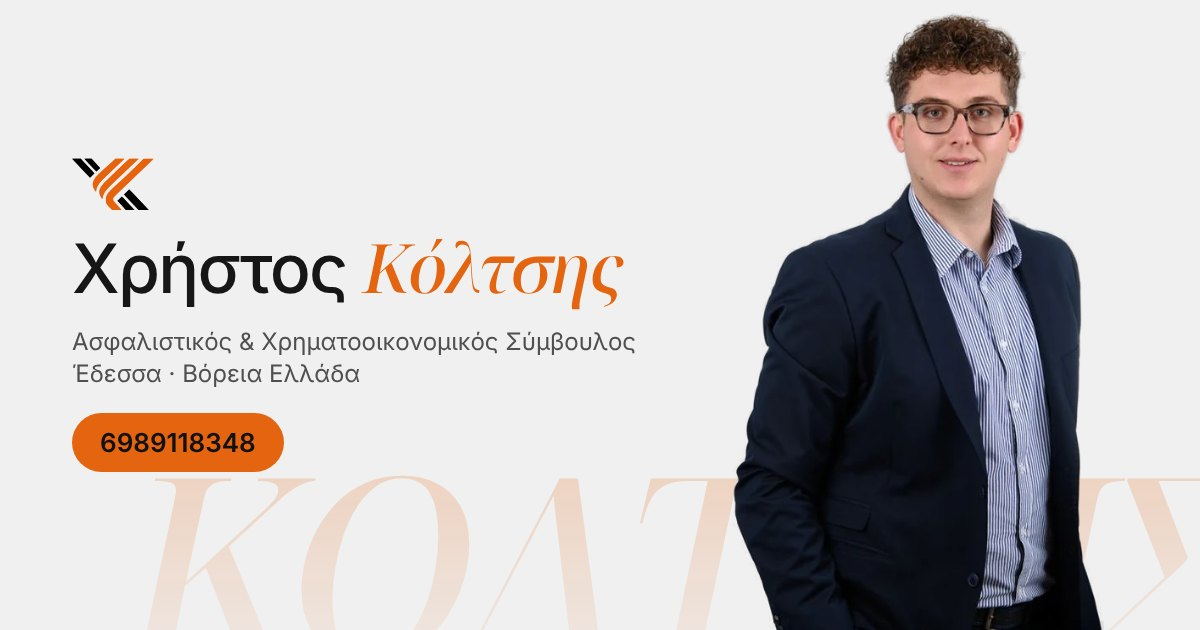
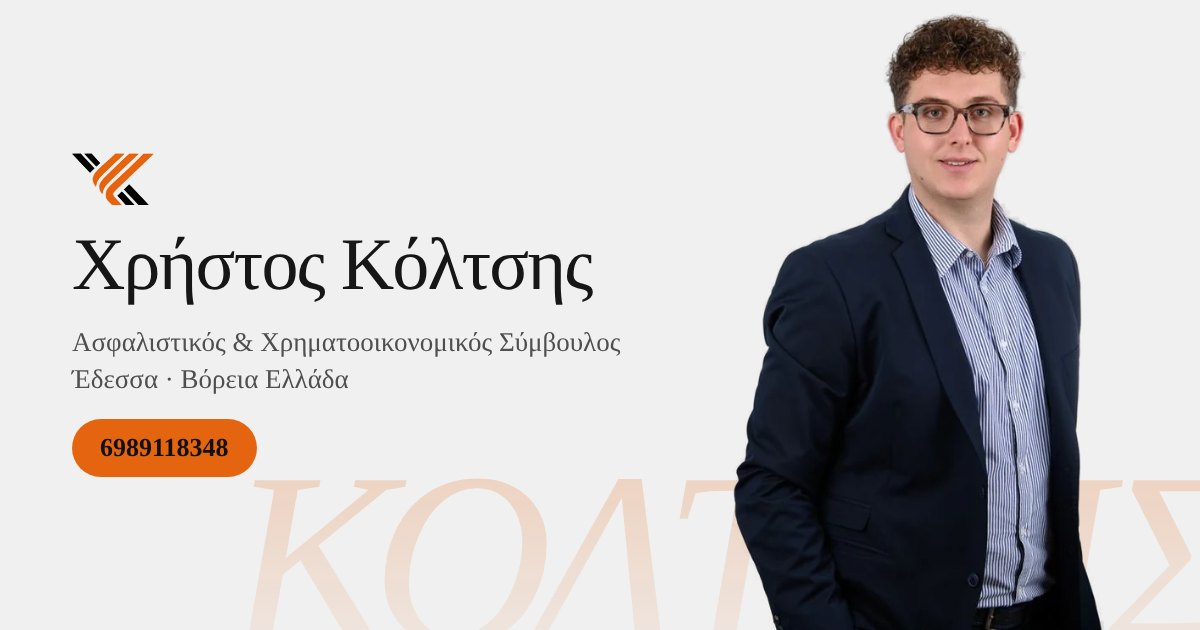
Switch typography to Times New Roman and add artifact preview build
Christos asked for Times New Roman across the site and for his name to
read in one colour and size on the share image. Devices without Times
New Roman (most Android phones) get Tinos, which has the same metrics
and Greek support.

npm run build:preview packs a hash-routed build into one self-contained
HTML file, so the whole site can be reviewed as a claude.ai artifact
before launch.

Claude-Session: https://claude.ai/code/session_012S619zmG4iuKr46HpjBQPj

diff --git a/src/index.css b/src/index.css
@@ -1,7 +1,7 @@
 html,body{background:var(--bg)}
-:root{--bg:#f0f0f0;--surface:#fff;--fill:rgba(120,120,120,.12);--ink:#161616;--muted:#636363;--line:#d6d6d6;--accent:#e56410;--on:#111;--soft:#fbe8db;--text:#a84306;color-scheme:light}
+:root{--bg:#f0f0f0;--surface:#fff;--fill:rgba(120,120,120,.12);--ink:#161616;--muted:#636363;--line:#d6d6d6;--accent:#e56410;--on:#111;--soft:#fbe8db;--text:#a84306;--serif:"Times New Roman",Tinos,Times,serif;color-scheme:light}
 *{box-sizing:border-box;margin:0;padding:0}
-body{background:var(--bg);color:var(--ink);font:16px/1.55 -apple-system,BlinkMacSystemFont,"SF Pro Text","Helvetica Neue","Segoe UI",Roboto,system-ui,sans-serif}
+body{background:var(--bg);color:var(--ink);font:17px/1.5 var(--serif)}
 a{color:inherit;text-decoration:none}button,input,textarea{font:inherit;color:inherit}
 :focus-visible{outline:3px solid var(--accent);outline-offset:2px}
 .wrap{max-width:1040px;margin:0 auto;padding-left:16px;padding-right:16px}
@@ -14,7 +14,7 @@ nav a{padding:9px 12px;border-radius:999px;font-weight:600;font-size:14px;white-
 nav a[aria-current=page]{background:var(--accent);color:var(--on)}
 main{padding-top:24px;padding-bottom:48px;min-height:70vh}
 h1{font-size:clamp(28px,5vw,46px);line-height:1.12;letter-spacing:-.02em;text-wrap:balance;margin-bottom:12px}
-h1 em{font-family:"Noto Serif Display",Georgia,serif;font-style:italic;font-weight:500;color:var(--text);letter-spacing:-.01em}
+h1 em{font-family:var(--serif);font-style:italic;font-weight:500;color:var(--text);letter-spacing:-.01em}
 h2{font-size:20px;line-height:1.25}h3{font-size:18px;line-height:1.25}
 .section{margin:36px 0 14px}
 .lead{color:var(--muted);max-width:60ch;margin-bottom:18px}
@@ -172,7 +172,7 @@ header.open .burger i:nth-child(3){transform:translateY(-6px) rotate(-45deg)}
 main{padding-top:28px}
 
 .hero2{position:relative;display:grid;align-items:end;min-height:min(calc(100svh - 110px),760px);margin:0 -16px;padding:0 16px;overflow:clip;isolation:isolate}
-.sig{position:absolute;left:50%;bottom:6%;z-index:-1;font-family:"Noto Serif Display",Georgia,serif;font-style:italic;font-weight:500;font-size:min(19vw,215px);line-height:.8;letter-spacing:-.04em;white-space:nowrap;color:transparent;background:linear-gradient(180deg,rgba(229,100,16,.22),rgba(229,100,16,.06) 90%);-webkit-background-clip:text;background-clip:text;transform:translate(calc(-50% + var(--mx,0)*-40px),calc(var(--my,0)*-22px));user-select:none;pointer-events:none}
+.sig{position:absolute;left:50%;bottom:6%;z-index:-1;font-family:var(--serif);font-style:italic;font-weight:500;font-size:min(19vw,215px);line-height:.8;letter-spacing:-.04em;white-space:nowrap;color:transparent;background:linear-gradient(180deg,rgba(229,100,16,.22),rgba(229,100,16,.06) 90%);-webkit-background-clip:text;background-clip:text;transform:translate(calc(-50% + var(--mx,0)*-40px),calc(var(--my,0)*-22px));user-select:none;pointer-events:none}
 .hero-copy{position:relative;z-index:2;display:flex;flex-direction:column;align-items:flex-start;gap:14px;padding:28px 0}
 .hero-title{font-size:clamp(40px,6.4vw,84px);line-height:1.02;margin:0;max-width:11ch}
 .hero-title em{display:inline;color:var(--accent)}
@@ -203,7 +203,7 @@ p.rise{display:block}
 .stack::after{content:"";height:24vh}
 .step{position:sticky;top:calc(88px + var(--i)*62px);flex-direction:row;align-items:flex-start;gap:20px;padding:16px 28px 28px;min-height:170px;box-shadow:0 -1px 0 rgba(0,0,0,.02),0 18px 40px -24px rgba(0,0,0,.3)}
 .step:nth-child(2){background:#fff9f4}.step:nth-child(3){background:var(--soft)}
-.step-n{flex:none;font-family:"Noto Serif Display",Georgia,serif;font-style:italic;font-size:52px;line-height:.85;padding-top:4px;color:var(--accent)}
+.step-n{flex:none;font-family:var(--serif);font-style:italic;font-size:52px;line-height:.85;padding-top:4px;color:var(--accent)}
 .step h3{font-size:22px;margin:8px 0 6px}.step p{font-size:16.5px;max-width:52ch}
 @media(max-width:600px){.stack{gap:8vh}.step{padding:14px 22px 22px;gap:14px}.step-n{font-size:46px}}
 

diff --git a/src/App.tsx b/src/App.tsx
@@ -5,7 +5,7 @@ import mark from './mark'
 import logo from './logo'
 import { useDepth, useFx } from './Fx'
 import { Pension, Checkup, ToolsPage, Funds, Near } from './Tools'
-import { href, keyFromPath, meta, ROUTES, BASE } from './routes'
+import { href, keyFromPath, currentKey, meta, ROUTES, BASE, HASH } from './routes'
 
 const PHONE = '6989118348'
 const MAIL = 'christos.koltsis@nnadvisors.gr'
@@ -206,7 +206,7 @@ function Privacy() {
 }
 
 export default function App({ initial }: { initial?: string }) {
-  const [route, setRoute] = useState(() => initial ?? keyFromPath(location.pathname))
+  const [route, setRoute] = useState(() => initial ?? currentKey())
   const [menu, setMenu] = useState(false)
   useEffect(() => {
     const go = (key: string) => {
@@ -214,6 +214,7 @@ export default function App({ initial }: { initial?: string }) {
       const m = meta(key); document.title = m.title
       document.querySelector('meta[name=description]')?.setAttribute('content', m.description)
     }
+    if (HASH) { const f = () => go(currentKey()); addEventListener('hashchange', f); return () => removeEventListener('hashchange', f) }
     const old = location.hash.slice(1)
     if (location.pathname === BASE && ROUTES.includes(old) && old !== 'arxiki') { history.replaceState(null, '', href(old)); go(old) }
     const click = (e: MouseEvent) => {

diff --git a/src/routes.ts b/src/routes.ts
@@ -1,12 +1,20 @@
 import { POSTS } from './data'
 
 export const BASE = import.meta.env.BASE_URL
+// Preview builds (claude.ai artifact) can't use real paths, so pages switch on #key there
+export const HASH = import.meta.env.VITE_HASH_ROUTES === 'true'
 
 export const PAGES = ['arxiki', 'idiotes', 'epixeiriseis', 'programmata', 'ergaleia', 'syntaxi', 'checkup', 'kefalaia', 'konta', 'blog', 'epikoinonia', 'rantevou', 'aporrito'] as const
 export const ROUTES: string[] = [...PAGES, ...POSTS.map(p => 'arthro-' + p.id)]
 
 export const href = (key: string) =>
-  key === 'arxiki' ? BASE : BASE + (key.startsWith('arthro-') ? 'arthra/' + key.slice(7) : key) + '/'
+  HASH ? '#' + key : key === 'arxiki' ? BASE : BASE + (key.startsWith('arthro-') ? 'arthra/' + key.slice(7) : key) + '/'
+
+export function currentKey() {
+  if (!HASH) return keyFromPath(location.pathname)
+  const key = location.hash.slice(1).split('#')[0]
+  return ROUTES.includes(key) ? key : 'arxiki'
+}
 
 export function keyFromPath(pathname: string) {
   const rest = pathname.startsWith(BASE) ? pathname.slice(BASE.length) : pathname.replace(/^\//, '')

diff --git a/index.html b/index.html
@@ -5,7 +5,7 @@
 <meta name="viewport" content="width=device-width, initial-scale=1.0" />
 <link rel="preconnect" href="https://fonts.googleapis.com" />
 <link rel="preconnect" href="https://fonts.gstatic.com" crossorigin />
-<link rel="stylesheet" href="https://fonts.googleapis.com/css2?family=Noto+Serif+Display:ital,wght@1,400;1,500&display=swap" />
+<link rel="stylesheet" href="https://fonts.googleapis.com/css2?family=Tinos:ital,wght@0,400;0,700;1,400;1,700&display=swap" />
 <meta name="theme-color" content="#f0f0f0" />
 <!--head-->
 </head>

diff --git a/src/main.tsx b/src/main.tsx
@@ -1,8 +1,8 @@
 import { createRoot, hydrateRoot } from 'react-dom/client'
 import App from './App'
 import './index.css'
-import { keyFromPath, meta } from './routes'
-if (!document.title) document.title = meta(keyFromPath(location.pathname)).title
+import { currentKey, meta } from './routes'
+if (!document.title) document.title = meta(currentKey()).title
 const root = document.getElementById('root')!
 if (root.hasChildNodes()) hydrateRoot(root, <App />)
 else createRoot(root).render(<App />)

diff --git a/vite.config.ts b/vite.config.ts
@@ -6,6 +6,8 @@ export default defineConfig({
   // '/christoskoltsis-site/' while the site lives on github.io, '/' once the domain is connected
   base: process.env.SITE_BASE || '/',
   plugins: [react()],
+  // The artifact preview is one self-contained file, so images go inline there
+  build: process.env.VITE_HASH_ROUTES === 'true' ? { assetsInlineLimit: 1e8, outDir: 'dist-preview' } : {},
   resolve: {
     alias: {
       "@": path.resolve(__dirname, "./src"),
